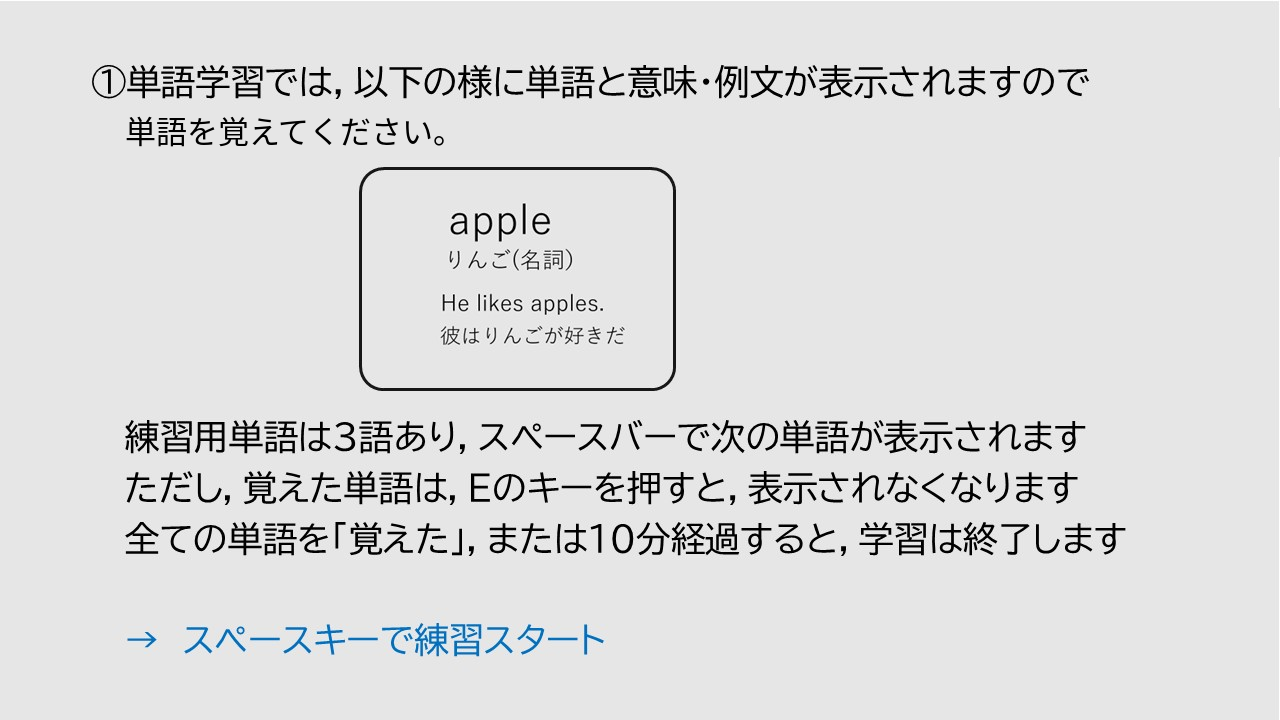
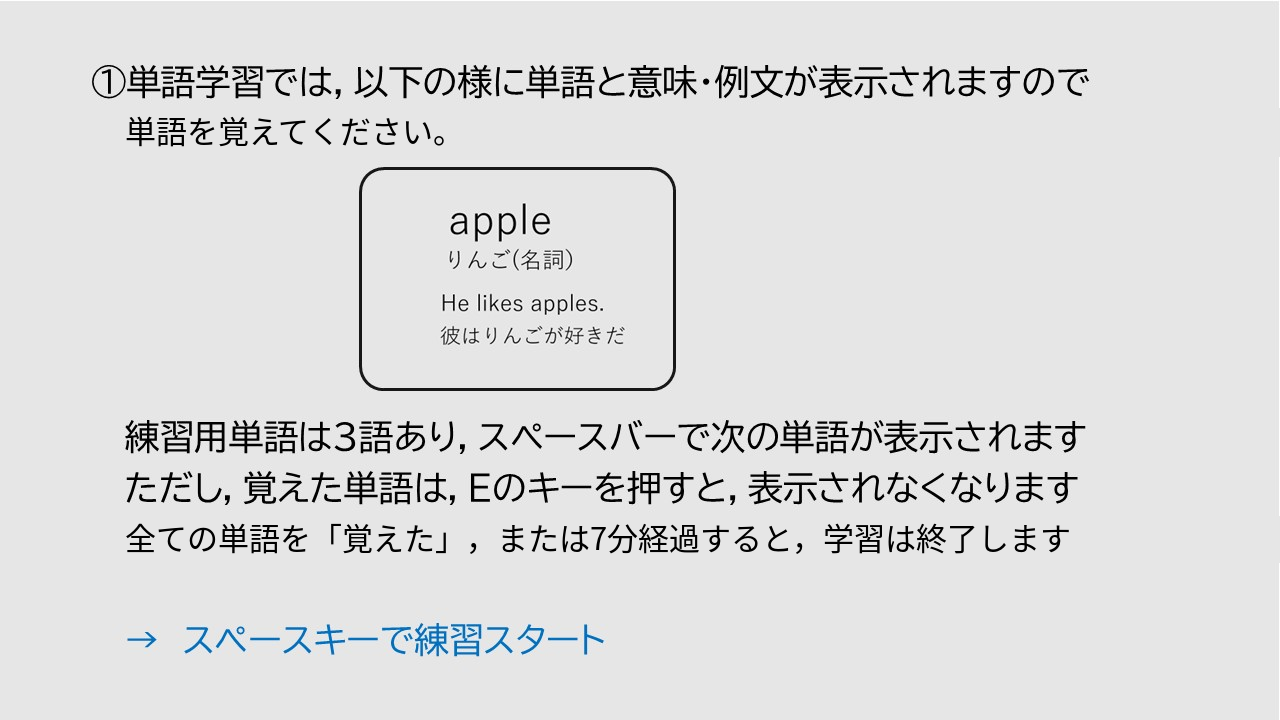
Fix remaining 10-minute references missed in v2
setumei_2_v2.PNG still said the learning phase ends after
"10分経過" in its practice-instructions paragraph; changed to 7分.
Also fixed a stale "10分タイマー付き" code comment in
experiment_2026_v2.html (no functional change, timer logic was
already 7 minutes).

Changed region(s): [[0.0938, 0.7028, 0.875, 0.7944]]

diff --git a/experiment_2026_v2.html b/experiment_2026_v2.html
@@ -268,7 +268,7 @@ timeline.push({
   }
 });
 
-// 本試行 1 試行ずつループ（10分タイマー付き）
+// 本試行 1 試行ずつループ（7分タイマー付き）
 var main_trial = {
   type: 'html-keyboard-response',
   stimulus: function() {
